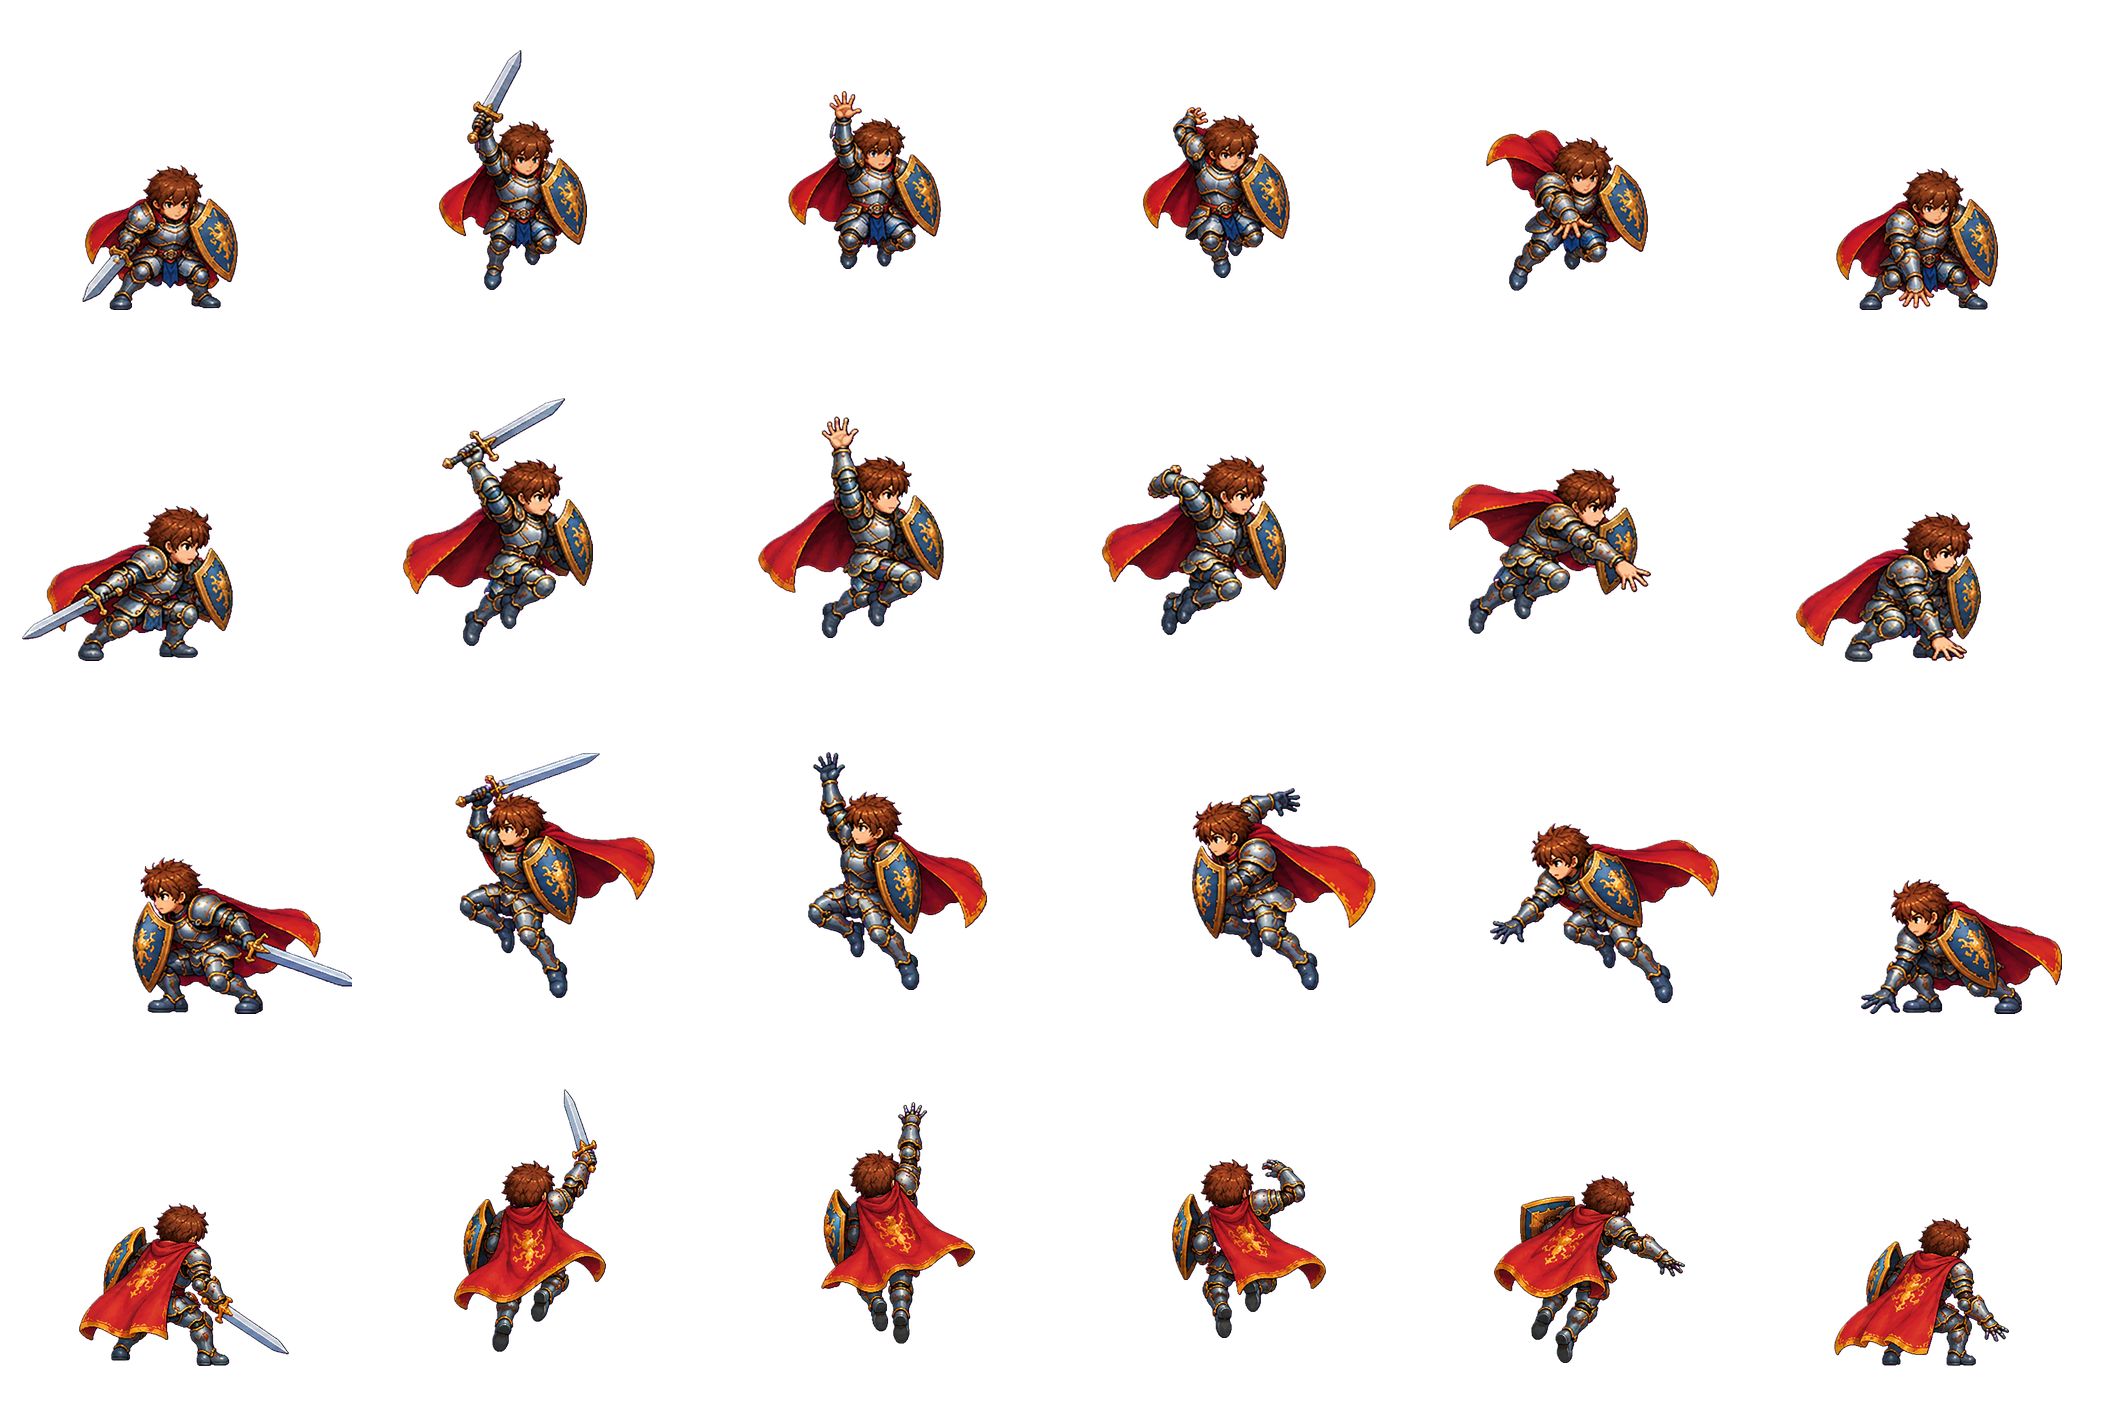
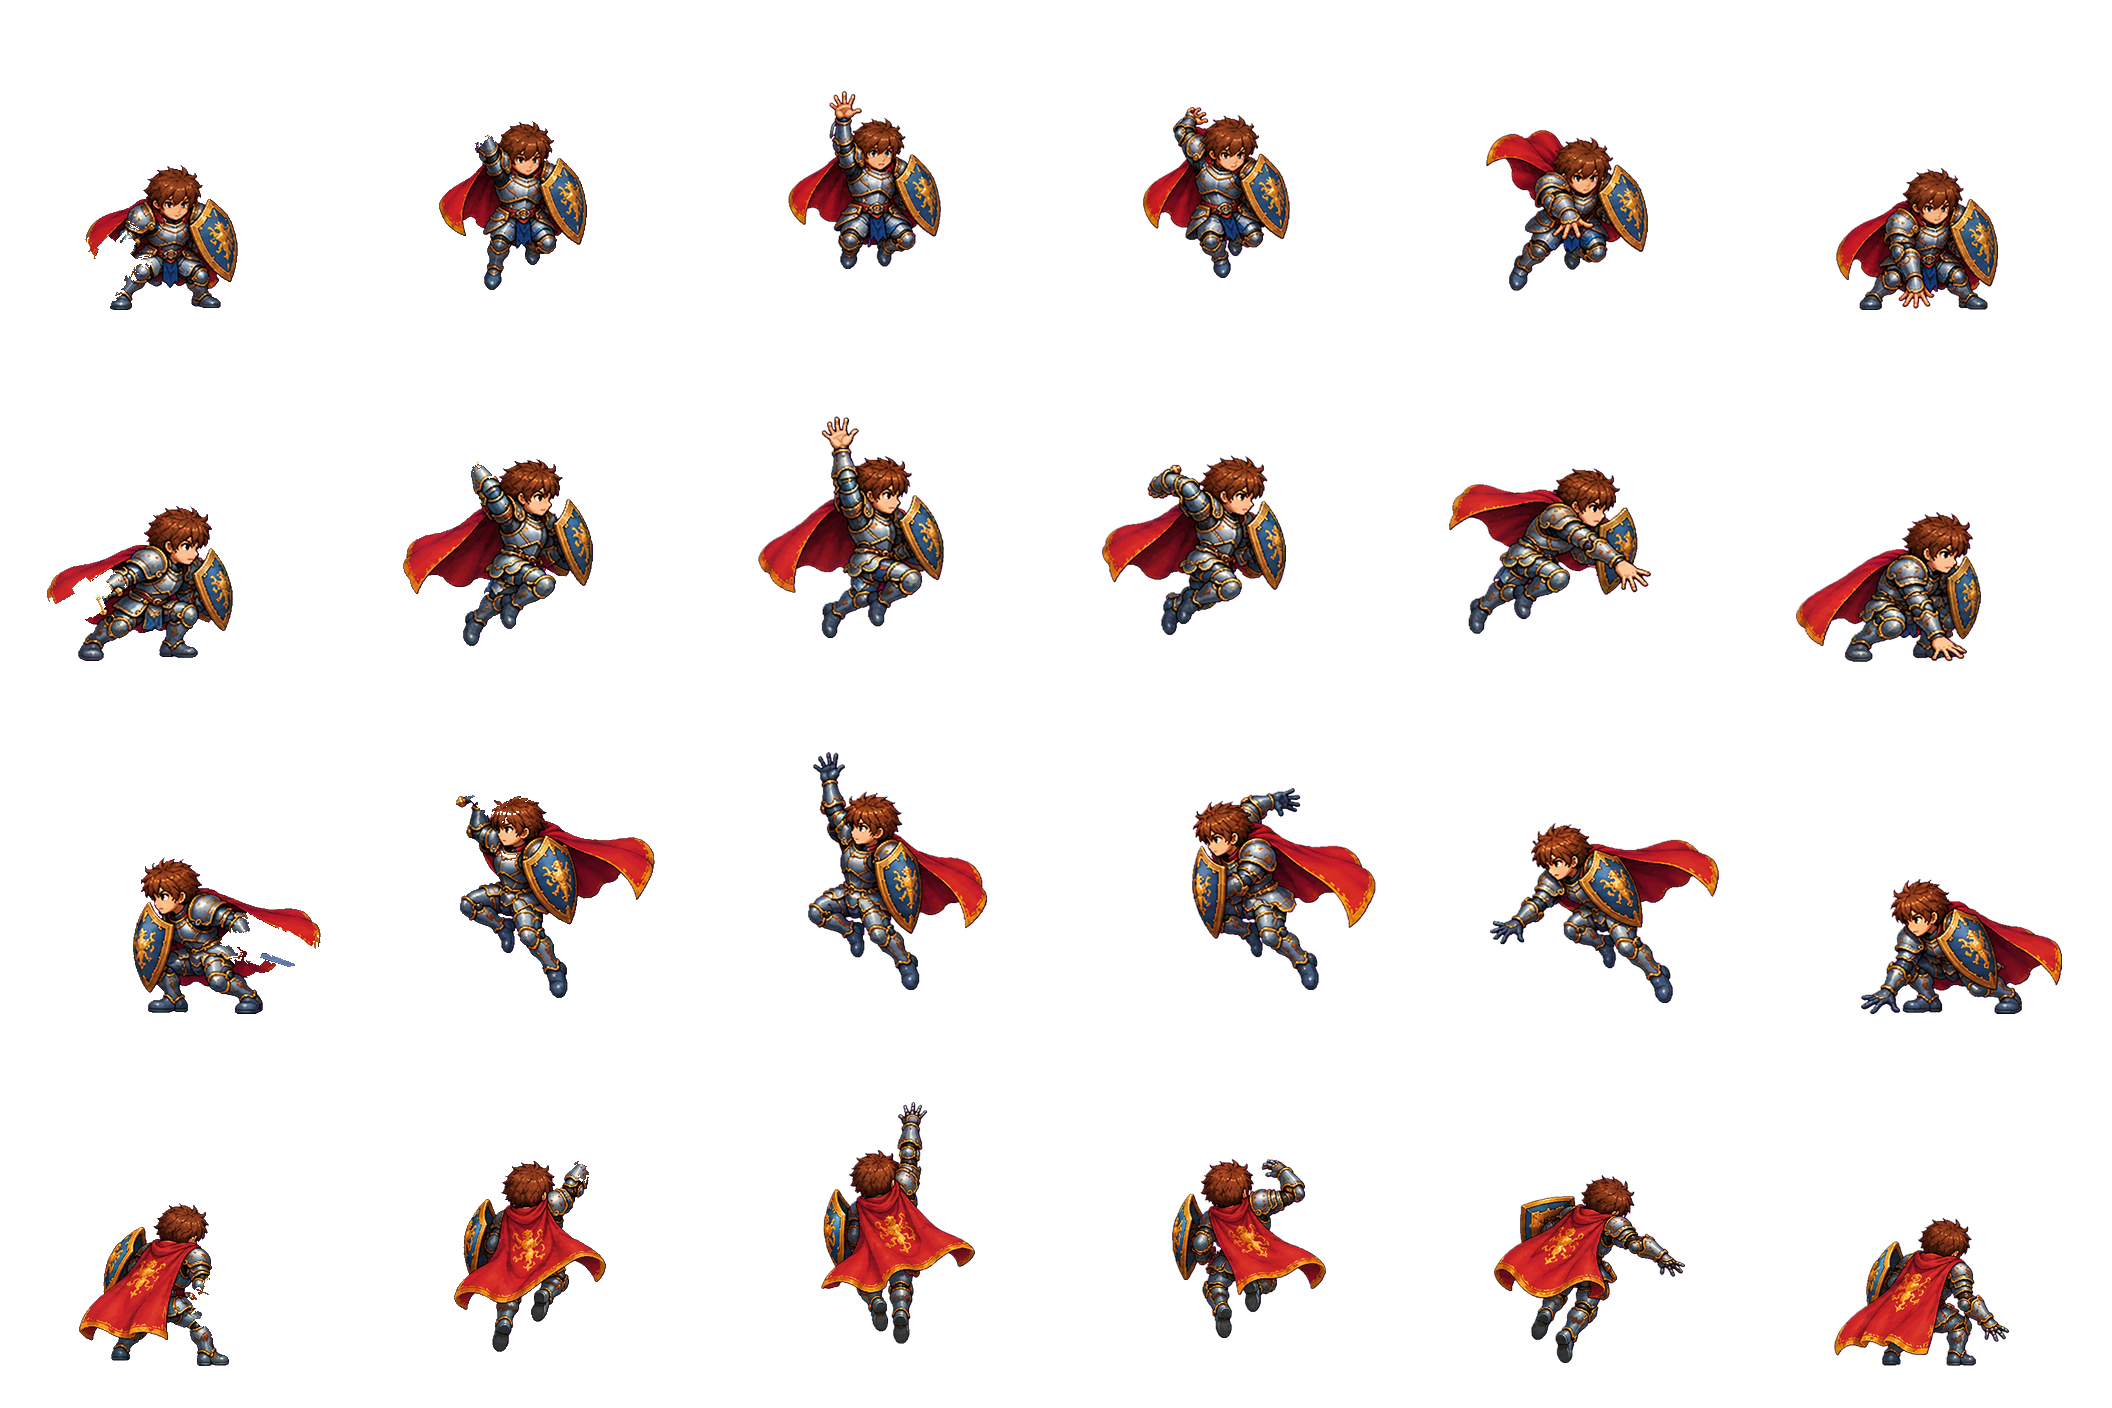
F: lightning strikes the raised sword tip, glowing eyes, 15s, clean finish; C: breaks free from stun/hits/knockdown, glowing eyes, snappier, no floor ripples; V: sword vanishes from the moment of cast, longer charge in the air
Claude-Session: https://claude.ai/code/session_019q8CMrxghbNzj8w42KsHoP

diff --git a/src/scenes/LegacyCourtyardScene.ts b/src/scenes/LegacyCourtyardScene.ts
@@ -104,6 +104,9 @@ export class LegacyCourtyardScene extends Phaser.Scene {
   private dome: { x: number; y: number; rx: number; ry: number; until: number; t0: number; img: Phaser.GameObjects.Image; glow: Phaser.GameObjects.Image; wx: number; side: number } | null = null;
   private beam?: Phaser.GameObjects.Image;
   private beamGlow?: Phaser.GameObjects.Image;
+  private eyes?: Phaser.GameObjects.Image;
+  private boltDone = true;
+  private radiantFrom = -1;
   /** Startup lunge toward the target / post-hit momentum following the push (px still to travel, ms left). */
   private lunge: { x: number; y: number; left: number } | null = null;
   private momentum: { x: number; y: number; left: number } | null = null;
@@ -536,6 +539,7 @@ export class LegacyCourtyardScene extends Phaser.Scene {
     if (this.dead >= 0) { alpha = 1 - (1 - P6.deathAlpha) * Math.min(1, this.dead / P6.deathFadeMs); tint = 0xff4a4a; fill = false; }
     v.render(ms, pose, k.x, k.y, k.z, k.supportZ, dir, alpha, tint, fill);
     this.renderRadiant(pose, dir);
+    this.renderEyes(pose, dir);
     this.renderDome();
     // War Cry: a golden battle-spirit aura (no fire): rim light on the body, light streaks rising from a floor sigil, ripples.
     const cry = this.simMs < this.warCryUntil && this.dead < 0;
@@ -578,18 +582,22 @@ export class LegacyCourtyardScene extends Phaser.Scene {
         this.cryBody.setOrigin(sp.originX, sp.originY).setScale(sp.scaleX * 1.03, sp.scaleY * 1.03).setPosition(sp.x, sp.y).setDepth(d + 0.04)
           .setTint(0xffe9a8).setAlpha((0.2 + 0.08 * Math.sin(this.simMs / 260)) * fade);
         this.cryAura.setPosition(k.x, k.y - k.z - 48).setDepth(d - 0.25).setDisplaySize(150, 200).setAlpha((0.3 + 0.08 * Math.sin(this.simMs / 300)) * fade);
-        if (this.simMs - this.emberT > 900) { // golden ripple on the floor
-          this.emberT = this.simMs;
-          const r = this.add.ellipse(k.x, k.y - k.supportZ, 60, 22).setStrokeStyle(3, 0xffd36a, 0.8).setBlendMode(Phaser.BlendModes.ADD).setDepth(actorDepth(k.x, k.y, k.supportZ) - 0.7);
-          this.tweens.add({ targets: r, scaleX: 2.6, scaleY: 2.6, alpha: 0, duration: 800, ease: 'Cubic.easeOut', onComplete: () => r.destroy() });
-        }
       }
     }
   }
 
+  /** Glowing eyes while Radiant Blade or War Cry is active. */
+  private renderEyes(pose: PoseFrame, dir: Dir): void {
+    const on = (this.simMs < this.radiantUntil || this.simMs < this.warCryUntil) && this.dead < 0 && this.view!.visible && !!pose.anchor && dir !== 'up';
+    if (!on) { this.eyes?.setVisible(false); return; }
+    if (!this.eyes) this.eyes = this.add.image(0, 0, 'dmg-glow').setBlendMode(Phaser.BlendModes.ADD).setTint(0xfff0a0);
+    const sp = this.view!.sprite, a = pose.anchor!, ex = sp.x + a[2] + (dir === 'right' ? 4 : dir === 'left' ? -4 : 0), ey = sp.y + a[3] + 3;
+    this.eyes.setVisible(true).setPosition(ex, ey).setDisplaySize(dir === 'down' ? 22 : 14, 7).setDepth(sp.depth + 0.05).setAlpha(0.8 + 0.2 * Math.sin(this.simMs / 160));
+  }
+
   /** Radiant Blade: a long blade of pure light extends from the real hilt along the sword of the current frame. */
   private renderRadiant(pose: PoseFrame, dir: Dir): void {
-    const on = this.simMs < this.radiantUntil && this.dead < 0 && this.view!.visible && !!pose.blade;
+    const on = this.simMs >= this.radiantFrom && this.simMs < this.radiantUntil && this.dead < 0 && this.view!.visible && !!pose.blade;
     if (on && !this.beam) {
       this.beam = this.add.image(0, 0, 'radiant-blade', 0).setOrigin(17.6 / 256, 0.5).setBlendMode(Phaser.BlendModes.ADD);
       this.beamGlow = this.add.image(0, 0, 'radiant-blade', 0).setOrigin(17.6 / 256, 0.5).setBlendMode(Phaser.BlendModes.ADD).setTint(0xffd27a);
@@ -598,6 +606,10 @@ export class LegacyCourtyardScene extends Phaser.Scene {
     this.beam.setVisible(on); this.beamGlow.setVisible(false); // no extra glow layer: the blade art only
     if (!on) return;
     const b = pose.blade!, sp = this.view!.sprite, k = this.kin;
+
+    if (!this.boltDone && b[3] < b[1] - 10) { // strike once the blade points up: the bolt lands on its tip
+      this.boltDone = true; this.fx!.lightningAt(sp.x + b[0] + (b[2] - b[0]) * 2.7, sp.y + b[1] + (b[3] - b[1]) * 2.7);
+    }
     const hx = sp.x + b[0], hy = sp.y + b[1], dx = b[2] - b[0], dy = b[3] - b[1], len = Math.hypot(dx, dy) * 2.7, ang = Math.atan2(dy, dx) * (180 / Math.PI);
     const left = this.radiantUntil - this.simMs, fade = Math.min(1, left / 500), f = Math.floor(this.simMs / 90) % 4;
     const sx = len / 238, sy = sx * 1.1; // broad translucent blade of light (pre-downscaled smooth art, additive)
@@ -672,6 +684,12 @@ export class LegacyCourtyardScene extends Phaser.Scene {
     const s = this.kit[i];
     if (!s || !this.rt || this.dead >= 0) return false;
     const now = this.simMs, k = this.kin, b = this.body;
+    // War Cry breaks free: usable while stunned / hit / launched / knocked down (cooldown permitting) — clears all CC.
+    if (s.id === 'war_cry' && (b.state !== 'free' || b.hard.active(now)) && this.rt.cooldownRemaining(s.id) <= 0) {
+      b.hard.reset(); b.combos.clear(); b.push = null; b.pinUntil = -1; b.state = 'free'; b.stateEnd = 0; b.invulnUntil = now + 600;
+      if (!k.grounded) { k.vz = Math.min(k.vz, 0); }
+      this.fx!.callout({ x: k.x, y: k.y, z: k.z + 40 }, 'BREAK FREE!!', '#ffe7a0', 0);
+    }
     if (b.state !== 'free') return false;
     if (b.hard.active(now) && b.hard.kind !== 'root') return false;
     if (!(k.grounded ? s.ground : s.air)) return false;
@@ -748,7 +766,8 @@ export class LegacyCourtyardScene extends Phaser.Scene {
     if (s.id === 'war_cry') this.warCryUntil = this.simMs + s.startup + 8000;
     if (s.id === 'blade_storm') this.radiantUntil = Math.max(this.radiantUntil, this.simMs + s.startup + s.active + 5000); // the storm leaves the blade of light in your hand
     if (s.id === 'sanctuary') this.domeAt = this.simMs + Math.round(s.startup * 0.95); // sim clock (hit-stop/fast-step safe)
-    if (s.id === 'radiant_blade') this.radiantUntil = this.simMs + Math.round(s.startup * 0.7) + 10000;
+    if (s.id === 'radiant_blade') { this.boltDone = false; this.radiantFrom = this.simMs + Math.round(s.startup * 0.7); } // light appears when the sword is raised
+    if (s.id === 'radiant_blade') this.radiantUntil = this.simMs + Math.round(s.startup * 0.7) + 15000;
     if (s.id === 'guard_counter') this.body.invulnUntil = this.simMs + s.startup + 600; // Aegis barrier
     if (s.armor) this.body.armorUntil = Math.max(this.body.armorUntil, this.simMs + s.armor[1]); // super armor from the first frame (never interrupted mid-windup)
     if (s.slot === 7) this.body.invulnUntil = this.simMs + s.startup + s.active; // ultimate: untouchable while it plays

diff --git a/src/skills/FinalKit.ts b/src/skills/FinalKit.ts
@@ -126,8 +126,8 @@ const warrior: FinalSkill[] = [
     startup: 380, active: 160, recovery: 260, cooldown: 20000, ground: true, air: false, cover: 'IGNORES_COVER', move: LOCK, armor: [0, 700],
     hits: [H(0, 8, { kind: 'circle', radius: 130 }, { stun: 360, push: 30 }, { reachUp: 140 })],
     cancelOnHit: ['warrior_basic', 'dash_slash', 'rising_slash', 'whirlwind', 'blade_storm'], tags: ['buff'],
-    description: 'Your sword becomes a long blade of pure light for 10s: every sword strike reaches 70% farther and deals +15% damage. The transformation releases a light burst around you.',
-    relations: ['Buff 10s', 'Range +70%'],
+    description: 'Your sword becomes a long blade of pure light for 15s: every sword strike reaches 70% farther and deals +15% damage. The transformation releases a light burst around you.',
+    relations: ['Buff 15s', 'Range +85%'],
   }),
   S({
     id: 'lance_thrust', cls: 'warrior', slot: 11, name: 'Impaling Rush', roles: ['extender', 'peel'], targeting: 'mouseDir',
@@ -140,18 +140,18 @@ const warrior: FinalSkill[] = [
   }),
   S({
     id: 'war_cry', cls: 'warrior', slot: 12, name: 'War Cry', roles: ['setup', 'pull'], targeting: 'self',
-    startup: 420, active: 200, recovery: 300, cooldown: 15000, ground: true, air: false, cover: 'IGNORES_COVER', move: LOCK, armor: [0, 920],
+    startup: 320, active: 160, recovery: 200, cooldown: 15000, ground: true, air: true, cover: 'IGNORES_COVER', move: LOCK, armor: [0, 680],
     hits: [H(0, 6, { kind: 'circle', radius: 170 }, { stun: 420, pull: 34 }, { reachUp: 140 })],
     cancelOnHit: ['dash_slash', 'leap_crash', 'lance_thrust', 'blade_storm'], tags: ['buff'],
-    description: 'Battle roar: pulls nearby foes in and grants a golden aura for 8s — +20% damage and super armor while attacking.',
+    description: 'Battle roar — also breaks free from stun, hits and knockdowns: pulls nearby foes in and grants a golden aura for 8s — +20% damage and super armor while attacking.',
     relations: ['Buff 8s', 'Super armor'],
   }),
   S({
     id: 'judgment_blade', cls: 'warrior', slot: 13, name: 'Judgment Blade', roles: ['zone', 'setup'], targeting: 'mouseDir',
-    startup: 460, active: 320, recovery: 240, cooldown: 9000, ground: true, air: true, cover: 'IGNORES_COVER', move: LOCK,
+    startup: 680, active: 320, recovery: 240, cooldown: 9000, ground: true, air: true, cover: 'IGNORES_COVER', move: LOCK,
     charges: 3,
     hits: [H(180, 14, { kind: 'circle', radius: 80, at: 'aimBias', bias: 150 }, { stun: 420, pin: 400 }, { reachUp: 90, heavy: true })],
-    linger: { at: 'aim', offset: 150, startMs: 520, everyMs: 500, count: 10, radius: 130, maxZ: 40, hit: H(0, 3, { kind: 'circle', radius: 130 }, { stun: 560, pin: 480 }, { reachUp: 40 }) },
+    linger: { at: 'aim', offset: 150, startMs: 740, everyMs: 500, count: 10, radius: 130, maxZ: 40, hit: H(0, 3, { kind: 'circle', radius: 130 }, { stun: 560, pin: 480 }, { reachUp: 40 }) },
     cancelOnHit: ['warrior_basic', 'rising_slash', 'leap_crash', 'lance_thrust', 'blade_storm'],
     description: 'Up to 3 throws in a row. Hop and hurl your sword, transformed into a blade of light, into the ground ahead. It stays planted for 5s inside a storm ring that shocks and roots anyone standing in it.',
     relations: ['Zone 5s', 'Root → free combo'],

diff --git a/src/skills/SkillFx.ts b/src/skills/SkillFx.ts
@@ -130,7 +130,8 @@ export class SkillFx {
     if (shape.kind === 'projectile' || shape.kind === 'chain') { this.castFlare(r); return; }
     if (s.id === 'judgment_blade') this.judgment(r);
     else if (s.id === 'guard_counter') this.aegis(r);
-    else if (s.id === 'war_cry' || s.id === 'radiant_blade') this.roar(r);
+    else if (s.id === 'war_cry') this.roar(r);
+    else if (s.id === 'radiant_blade') { /* lightning fired by the scene at the real sword tip */ }
     else if (s.id === 'sanctuary') this.traceArc(r);
     else if (s.id !== 'leap_crash') this.castVfx(r);
     else this.aura(r);
@@ -221,6 +222,18 @@ export class SkillFx {
   }
 
   /** War Cry: power gathers, then the roar bursts out as a golden light pillar and floor shockwaves (no fire). */
+  /** Radiant Blade: a lightning bolt strikes down from the sky onto the sword tip (clean finish, no rings). */
+  lightningAt(tx: number, ty: number): void {
+    const g = this.scene.add.graphics().setBlendMode(Phaser.BlendModes.ADD).setDepth(TOP + 4);
+    const pts: [number, number][] = []; const off = (Math.random() < 0.5 ? -1 : 1) * 40;
+    for (let i = 0; i <= 10; i++) { const y = ty - 560 + (560 * i) / 10, f = 1 - i / 10; pts.push([i === 10 ? tx : tx + off * f + (Math.random() - 0.5) * 60 * f, y]); }
+    for (const [w, col, a] of [[16, 0xffd27a, 0.3], [6, 0xfff4d0, 0.9], [2, 0xffffff, 1]] as const) { g.lineStyle(w, col, a).beginPath(); g.moveTo(pts[0][0], pts[0][1]); for (const p of pts.slice(1)) g.lineTo(p[0], p[1]); g.strokePath(); }
+    const flash = this.scene.add.image(tx, ty, 'dmg-glow').setBlendMode(Phaser.BlendModes.ADD).setTint(0xfff0b0).setDepth(TOP + 5).setDisplaySize(90, 90);
+    this.scene.tweens.add({ targets: flash, displayWidth: 220, displayHeight: 220, alpha: 0, duration: 300, onComplete: () => flash.destroy() });
+    this.scene.tweens.add({ targets: g, alpha: 0, duration: 280, ease: 'Quad.easeIn', onComplete: () => g.destroy() });
+    (this.cam ?? this.scene.cameras.main).shake(140, 0.006);
+  }
+
   private roar(r: CastRun): void {
     const T = r.timings, c0 = this.casterPos(r.attackerId); if (!c0) return;
     const glow = this.scene.add.image(c0.x, c0.y - c0.z - 46, 'dmg-glow').setBlendMode(Phaser.BlendModes.ADD).setTint(0xffd36a).setDepth(c0.y - 1).setDisplaySize(60, 80).setAlpha(0);

diff --git a/src/game/Body.ts b/src/game/Body.ts
@@ -174,7 +174,7 @@ function sheetPose(cls: string, dir: Dir, q: PoseQuery): PoseFrame {
 
 /** Column of a skill body for the run phase: anticipation in startup, release exactly at the active start. */
 /** Per-skill column plans where the art's beats differ from the default split. */
-const SKILL_PLAN: Record<string, { st: number[]; ac: number[]; rc: number[] }> = { judgment_blade: { st: [0, 1, 2, 2], ac: [3, 4, 4], rc: [5] }, leap_crash: { st: [0], ac: [1, 2, 2, 3, 3, 4], rc: [4, 5] },
+const SKILL_PLAN: Record<string, { st: number[]; ac: number[]; rc: number[] }> = { judgment_blade: { st: [0, 1, 2, 2, 2, 2, 2], ac: [3, 4, 4], rc: [5] }, leap_crash: { st: [0], ac: [1, 2, 2, 3, 3, 4], rc: [4, 5] },
   titans_verdict: { st: [0, 1, 1, 1, 2, 2, 3, 4, 5], ac: [6], rc: [6, 6, 7, 7] },
   rising_slash: { st: [0, 1, 2], ac: [3, 3, 4, 4, 5], rc: [5, 6, 7] },
   ground_breaker: { st: [0, 1, 2, 2, 3], ac: [4, 5, 5, 5], rc: [5, 6, 7] },
@@ -183,7 +183,7 @@ const SKILL_PLAN: Record<string, { st: number[]; ac: number[]; rc: number[] }> =
   blade_storm: { st: [0, 1, 2, 2], ac: [3, 4, 4, 5], rc: [5, 6, 7] },
   wave_slash: { st: [0, 1, 1, 1, 1, 1, 1, 2], ac: [3, 4, 4, 5], rc: [5, 6, 7] },
   iron_grip: { st: [0, 1], ac: [2, 3, 3, 4, 5, 5], rc: [6, 7] },
-  radiant_blade: { st: [0, 1, 2, 5], ac: [5, 5], rc: [5, 6, 7] },
+  radiant_blade: { st: [0, 1, 2, 5], ac: [5, 5], rc: [5, 5, 7] }, // clean finish: sword held up, then straight to stance
   sanctuary: { st: [0, 1, 2, 3, 4, 5], ac: [6, 6], rc: [6, 7] },
   lance_thrust: { st: [0, 1], ac: [2, 3, 2, 3, 4, 5], rc: [6, 7] },
   war_cry: { st: [0, 1, 2, 2, 3], ac: [3, 4], rc: [4, 5, 6, 7] } };
